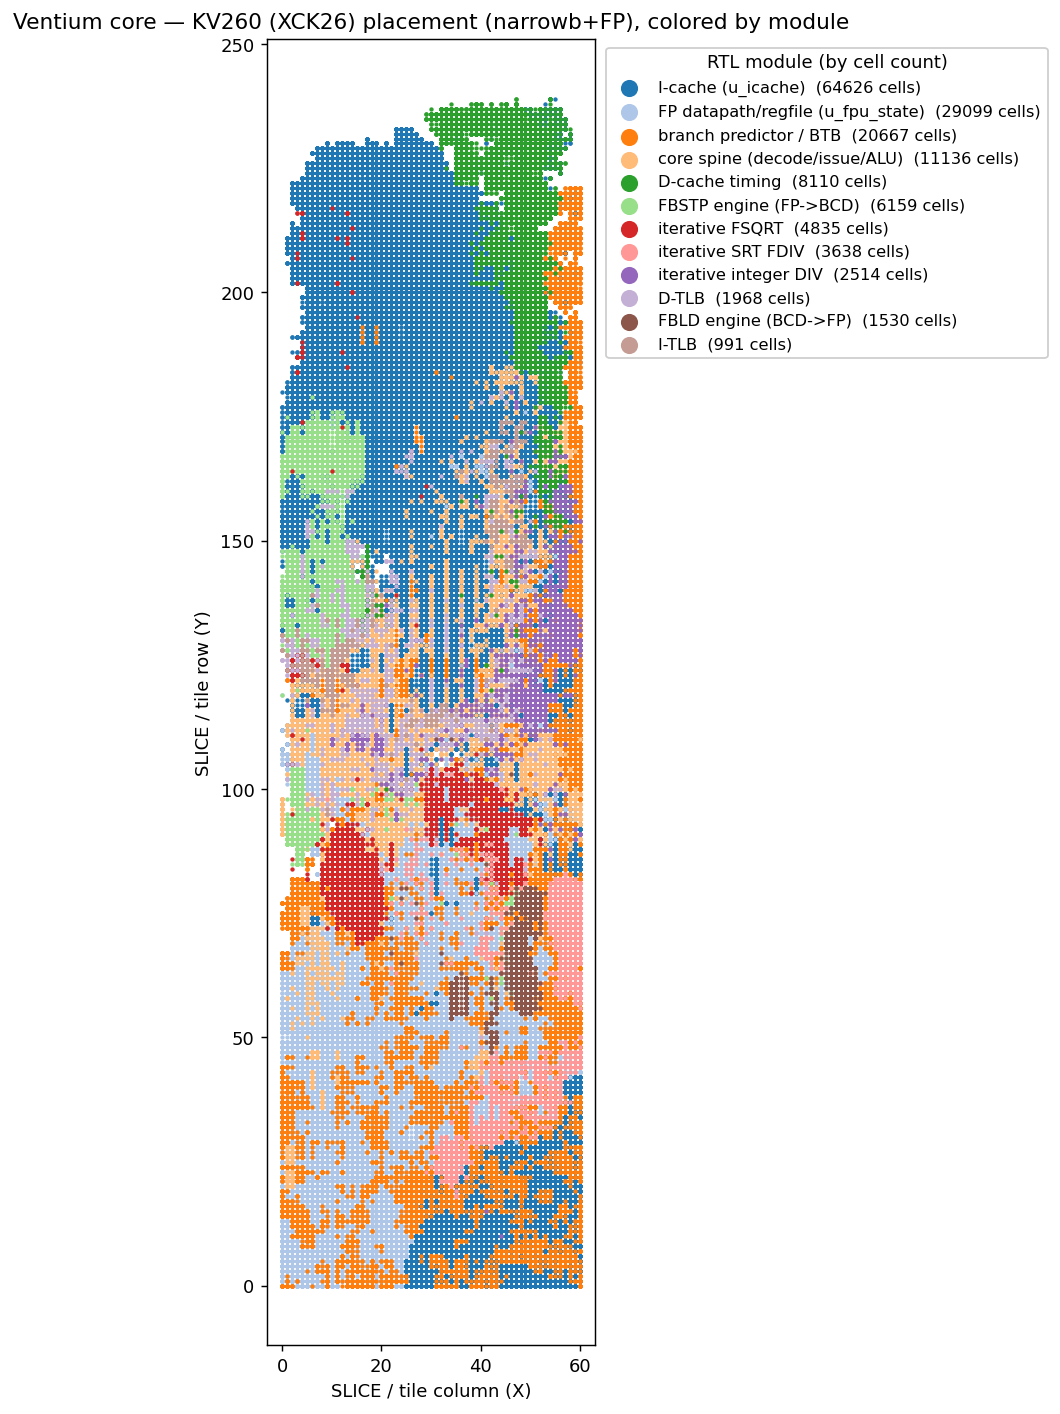
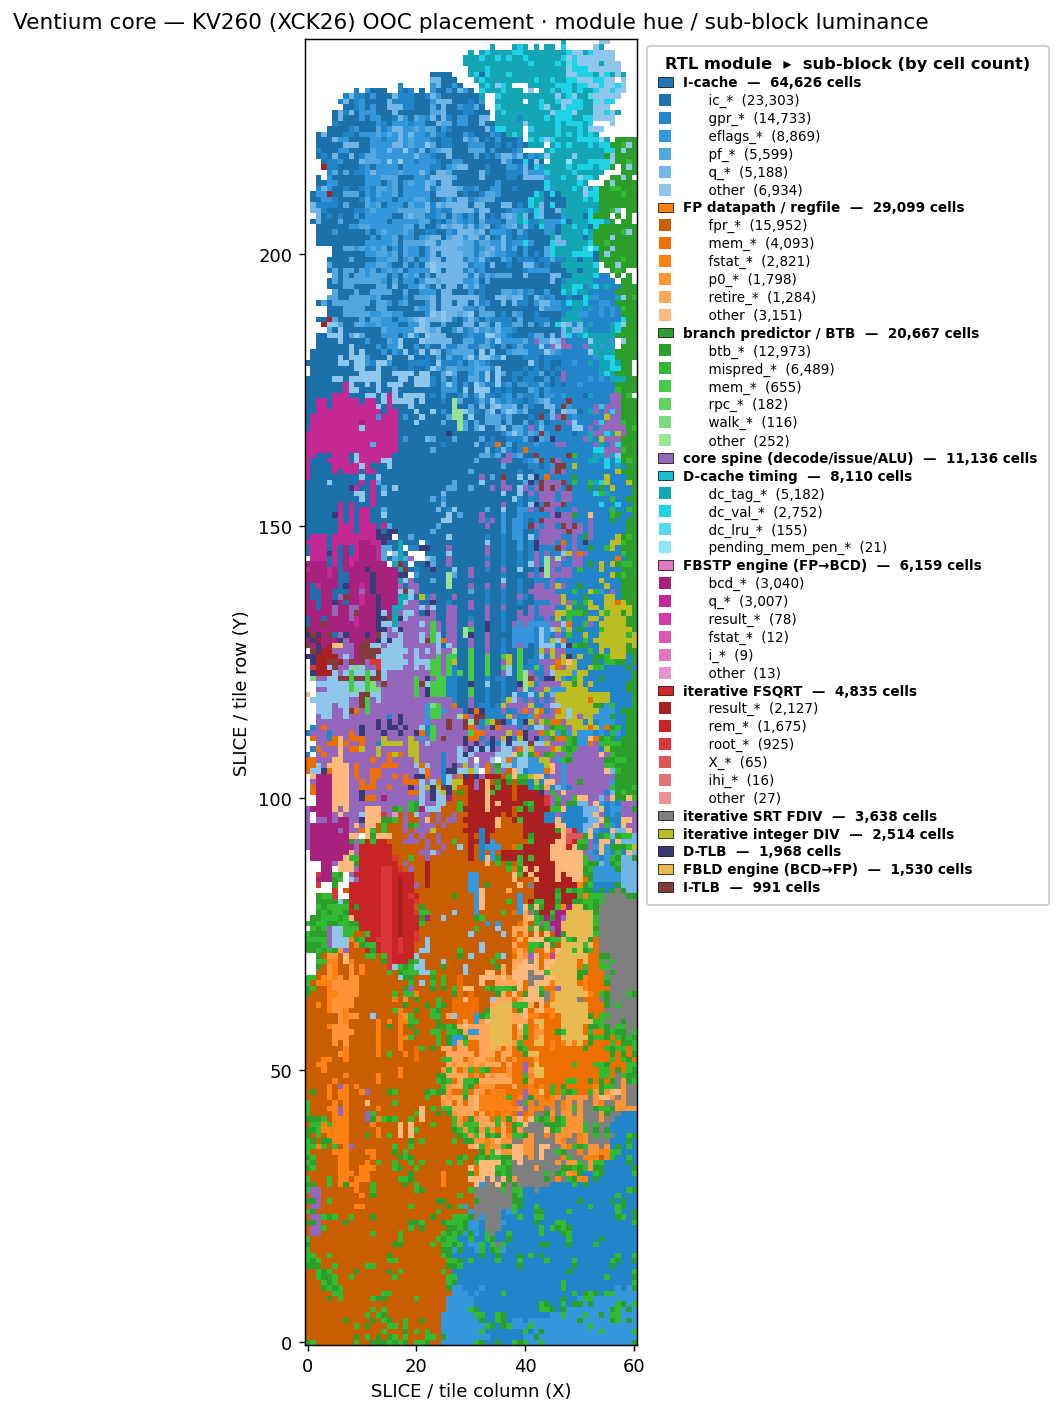
fpga: 2-level shared-color square-pixel device views
Revert left the per-site LOC coordinates (preferred). Rework the renderer:
- SHARED color scheme: a fixed module->hue map, so the same RTL module is the
  same color across every device view.
- 2-level coloring: top module = hue; 2nd-level sub-blocks = luminance steps.
  Sub-blocks are prefix-merged (xxxx_* / xxxx_yyyy_*) coarsening until <=6 groups
  per module, ranked BIGGEST-FIRST by cell count (the catch-all 'other' last).
- Render as a square-pixel raster (imshow, per-tile dominance) instead of an
  overlapping scatter — far more readable.
- Structured legend: bold module header + cell count, indented sub-block swatches.

apr_run.tcl + new dump_cells_hier.tcl emit module,sub,x,y; regenerated the KV260,
ZU15EG, and KV260 half-cache views.

diff --git a/fpga/scripts/render_device_view.py b/fpga/scripts/render_device_view.py
@@ -3,56 +3,194 @@
 # SPDX-License-Identifier: Apache-2.0 WITH SHL-2.1
 #
 # Render a "device view colored by module" from the placed-cell CSV that
-# device_view.tcl dumps (module,x,y per placed leaf cell on the KV260 XCK26).
-# Each cell is a point at its real placement site (X = SLICE column, Y = row);
-# color = the RTL top-hierarchy module it belongs to → you can see which physical
-# cluster is which module (fpu_state / icache / bpred_btb / core spine / ...).
+# apr_run.tcl / dump_cells_hier.tcl dump (module,sub,x,y per placed leaf cell).
+# Each cell is a point at its placement site (X = SLICE column, Y = row). Two-level
+# coloring:
+#   * TOP level (RTL module: u_icache / u_fpu_state / ...) -> a FIXED hue, shared
+#     across every plot so the same module is the same color in all device views.
+#   * 2nd level (signal-group sub-block inside the module: ic_tag / ic_val / fpr /
+#     btb_ctr / ...) -> a LUMINANCE step within that hue (dark = largest sub-block).
+# The legend is structured: one bold module header (full hue), then its sub-blocks
+# indented with their luminance swatches; small modules collapse to a header only.
 #
-#   python3 fpga/scripts/render_device_view.py <cells_loc.csv> <out.png> ["title"]
-import sys, csv
-from collections import defaultdict
+#   python3 fpga/scripts/render_device_view.py <cells.csv> <out.png> ["title"]
+import sys, csv, re, colorsys
+from collections import defaultdict, Counter
+import numpy as np
 import matplotlib
 matplotlib.use("Agg")
 import matplotlib.pyplot as plt
+import matplotlib.colors as mcolors
+from matplotlib.patches import Patch
+from matplotlib.lines import Line2D
 
 csv_path = sys.argv[1] if len(sys.argv) > 1 else "fpga/build/device_view/cells_loc.csv"
 out_png  = sys.argv[2] if len(sys.argv) > 2 else "fpga/build/device_view/device_view.png"
-title    = sys.argv[3] if len(sys.argv) > 3 else "Ventium core — KV260 (XCK26) placement, colored by module"
+title    = sys.argv[3] if len(sys.argv) > 3 else "Ventium core — placement, colored by RTL module"
 
-pts = defaultdict(lambda: ([], []))
+# ---- FIXED module -> base hue (SHARED across all device views) --------------
+MODULE_COLOR = {
+    "u_icache":    "#1f77b4",  # blue
+    "u_fpu_state": "#ff7f0e",  # orange
+    "u_bpred_btb": "#2ca02c",  # green
+    "u_uopcache":  "#8c564b",  # brown
+    "core_spine":  "#9467bd",  # purple
+    "u_dcache_tm": "#17becf",  # cyan
+    "u_bcd":       "#e377c2",  # pink
+    "u_sqrt_iter": "#d62728",  # red
+    "u_srt_div":   "#7f7f7f",  # gray
+    "u_idiv":      "#bcbd22",  # olive
+    "u_dtlb":      "#393b79",  # indigo
+    "u_bcd2fp":    "#e7ba52",  # gold
+    "u_itlb":      "#843c39",  # maroon
+}
+_FALLBACK = ["#393b79", "#637939", "#8c6d31", "#843c39", "#7b4173"]
+LABEL = {
+    "u_fpu_state": "FP datapath / regfile", "u_icache": "I-cache",
+    "u_bpred_btb": "branch predictor / BTB", "u_uopcache": "µop-cache",
+    "u_dcache_tm": "D-cache timing", "u_dtlb": "D-TLB", "u_itlb": "I-TLB",
+    "u_idiv": "iterative integer DIV", "u_sqrt_iter": "iterative FSQRT",
+    "u_srt_div": "iterative SRT FDIV", "u_bcd": "FBSTP engine (FP→BCD)",
+    "u_bcd2fp": "FBLD engine (BCD→FP)", "core_spine": "core spine (decode/issue/ALU)",
+}
+BREAKOUT_MIN = 4000  # modules >= this many cells get their sub-groups shown; else header-only
+
+def shade(hex_base, t):
+    """hue/sat of hex_base, lightness lerped by t in [0,1] (0=dark .. 1=light)."""
+    r, g, b = mcolors.to_rgb(hex_base)
+    h, _, s = colorsys.rgb_to_hls(r, g, b)
+    return colorsys.hls_to_rgb(h, 0.34 + 0.46 * t, min(1.0, s))
+
+def clean_sub(s):
+    """Reduce a flattened leaf name to its signal token(s): drop [..] bit indices,
+    synth _i_N tails, _reg suffix, and trailing _N — so prefix-merge sees real tokens."""
+    s = re.sub(r"\[[^\]]*\]", "", s)
+    s = re.sub(r"_i_\d+.*$", "", s)
+    s = re.sub(r"_reg.*$", "", s)
+    s = re.sub(r"(_\d+)+$", "", s)
+    return s or "misc"
+
+def prefix_groups(weight, maxg=6):
+    """Merge sub-block names by their leading `_`-delimited tokens (xxxx_* / xxxx_yyyy_*),
+    coarsening the prefix until there are <= maxg groups. `weight` maps name -> cell
+    count. Picks the FINEST prefix (most tokens) that still fits in maxg groups; if even
+    the first token over-runs, keeps the maxg-1 BIGGEST groups BY CELL COUNT and folds
+    the rest into 'other'. Returns {group_key: [names]}."""
+    names = list(weight)
+    def by_T(T):
+        g = defaultdict(list)
+        for nm in names:
+            key = "_".join(nm.split("_")[:T]) or nm
+            g[key].append(nm)
+        return g
+    for T in (4, 3, 2, 1):
+        g = by_T(T)
+        if len(g) <= maxg:
+            return g
+    g = by_T(1)
+    tot = {k: sum(weight[n] for n in v) for k, v in g.items()}   # rank by CELLS, not #names
+    keep = sorted(tot, key=lambda k: -tot[k])[:maxg - 1]
+    out = {k: g[k] for k in keep}
+    out["other"] = [n for k, v in g.items() if k not in keep for n in v]
+    return out
+
+# ---- load: module -> sub -> (xs, ys) ----------------------------------------
+data = defaultdict(lambda: defaultdict(lambda: ([], [])))
 with open(csv_path) as f:
-    for row in csv.DictReader(f):
+    rd = csv.DictReader(f)
+    has_sub = "sub" in (rd.fieldnames or [])
+    for row in rd:
         try:
             x = int(row["x"]); y = int(row["y"])
         except (KeyError, ValueError):
             continue
-        pts[row["module"]][0].append(x)
-        pts[row["module"]][1].append(y)
+        sub = clean_sub(row["sub"]) if has_sub else "(all)"
+        xs, ys = data[row["module"]][sub]
+        xs.append(x); ys.append(y)
 
-# friendly labels + a stable, distinct color order (biggest blocks first)
-LABEL = {
-    "u_fpu_state": "FP datapath/regfile (u_fpu_state)",
-    "u_icache": "I-cache (u_icache)",
-    "u_bpred_btb": "branch predictor / BTB",
-    "u_dcache_tm": "D-cache timing",
-    "u_dtlb": "D-TLB", "u_itlb": "I-TLB",
-    "u_idiv": "iterative integer DIV", "u_sqrt_iter": "iterative FSQRT",
-    "u_srt_div": "iterative SRT FDIV", "u_bcd": "FBSTP engine (FP->BCD)",
-    "u_bcd2fp": "FBLD engine (BCD->FP)", "core_spine": "core spine (decode/issue/ALU)",
-}
-order = sorted(pts.keys(), key=lambda m: -len(pts[m][0]))
-cmap = plt.get_cmap("tab20")
+mod_total = {m: sum(len(v[0]) for v in subs.values()) for m, subs in data.items()}
+order = sorted(data.keys(), key=lambda m: -mod_total[m])
+
+fb = 0
+legend_blocks = []                 # (module, base_hex, [(label, color, count), ...])
+layer_colors = []                  # idx -> rgb
+site_layer = defaultdict(Counter)  # (x, y) -> Counter{layer_idx: cells}
+def emit(col, xs, ys):
+    li = len(layer_colors); layer_colors.append(tuple(mcolors.to_rgb(col)))
+    for x, y in zip(xs, ys):
+        site_layer[(x, y)][li] += 1
+    return li
+
+for m in order:
+    base = MODULE_COLOR.get(m)
+    if base is None:
+        base = _FALLBACK[fb % len(_FALLBACK)]; fb += 1
+    subs = data[m]
+    leg = []
+    if mod_total[m] >= BREAKOUT_MIN and len(subs) > 1:
+        # prefix-merge the leaves into <=6 groups, then shade by group size
+        weight = {nm: len(xy[0]) for nm, xy in subs.items()}
+        groups = prefix_groups(weight)
+        merged = []
+        for key, names in groups.items():
+            gx, gy = [], []
+            for nm in names:
+                xs, ys = subs[nm]; gx += xs; gy += ys
+            merged.append((key, gx, gy))
+        # biggest first; the 'other' catch-all always sorts LAST (lightest)
+        merged.sort(key=lambda t: (t[0] == "other", -len(t[1])))
+        n = len(merged)
+        for i, (key, gx, gy) in enumerate(merged):
+            col = shade(base, 0.12 + 0.76 * (i / max(1, n - 1)))  # dark=biggest
+            emit(col, gx, gy)
+            leg.append((f"{key}_*" if key != "other" else "other", col, len(gx)))
+    else:
+        # small module: one flat color = the module hue
+        gx, gy = [], []
+        for xs, ys in subs.values():
+            gx += xs; gy += ys
+        emit(base, gx, gy)
+    legend_blocks.append((m, base, leg))
+
+# ---- rasterize to square pixels (one cell = one tile site) ------------------
+xs_all = [x for (x, _) in site_layer]; ys_all = [y for (_, y) in site_layer]
+minx, maxx = min(xs_all), max(xs_all); miny, maxy = min(ys_all), max(ys_all)
+W, H = maxx - minx + 1, maxy - miny + 1
+img = np.ones((H, W, 3))            # white background
+for (x, y), cnt in site_layer.items():
+    li = cnt.most_common(1)[0][0]   # the module/sub occupying MOST cells at this site
+    img[y - miny, x - minx] = layer_colors[li]
+
 fig, ax = plt.subplots(figsize=(13, 11))
-for i, m in enumerate(order):
-    xs, ys = pts[m]
-    ax.scatter(xs, ys, s=2, color=cmap(i % 20),
-               label=f"{LABEL.get(m, m)}  ({len(xs)} cells)", rasterized=True)
+ax.imshow(img, origin="lower", interpolation="nearest", aspect="equal",
+          extent=[minx - 0.5, maxx + 0.5, miny - 0.5, maxy + 0.5])
 ax.set_xlabel("SLICE / tile column (X)")
 ax.set_ylabel("SLICE / tile row (Y)")
 ax.set_title(title)
-ax.set_aspect("equal", adjustable="box")
-leg = ax.legend(loc="upper left", bbox_to_anchor=(1.01, 1.0), markerscale=6,
-                fontsize=9, framealpha=0.95, title="RTL module (by cell count)")
+ax.set_facecolor("white")
+
+# ---- structured 2-level legend ----------------------------------------------
+handles, labels = [], []
+for m, base, leg in legend_blocks:
+    name = LABEL.get(m, m)
+    handles.append(Patch(facecolor=base, edgecolor="black", linewidth=0.4))
+    labels.append(f"{name}  —  {mod_total[m]:,} cells")
+    for sname, col, cnt in leg:
+        handles.append(Line2D([0], [0], marker="s", linestyle="", markersize=7,
+                              markerfacecolor=col, markeredgecolor="none"))
+        labels.append(f"      {sname}  ({cnt:,})")
+
+leg = ax.legend(handles, labels, loc="upper left", bbox_to_anchor=(1.01, 1.0),
+                fontsize=7.5, framealpha=0.96, handlelength=1.1, labelspacing=0.28,
+                borderpad=0.8, title="RTL module  ▸  sub-block (by cell count)")
+leg.get_title().set_fontsize(9)
+leg.get_title().set_fontweight("bold")
+# bold the module header rows (full-color Patch handles)
+for txt, h in zip(leg.get_texts(), handles):
+    if isinstance(h, Patch):
+        txt.set_fontweight("bold")
+
 fig.tight_layout()
 fig.savefig(out_png, dpi=130, bbox_inches="tight")
-print(f"wrote {out_png}  ({sum(len(v[0]) for v in pts.values())} cells, {len(pts)} modules)")
+ncells = sum(mod_total.values())
+print(f"wrote {out_png}  ({ncells} cells, {len(data)} modules)")